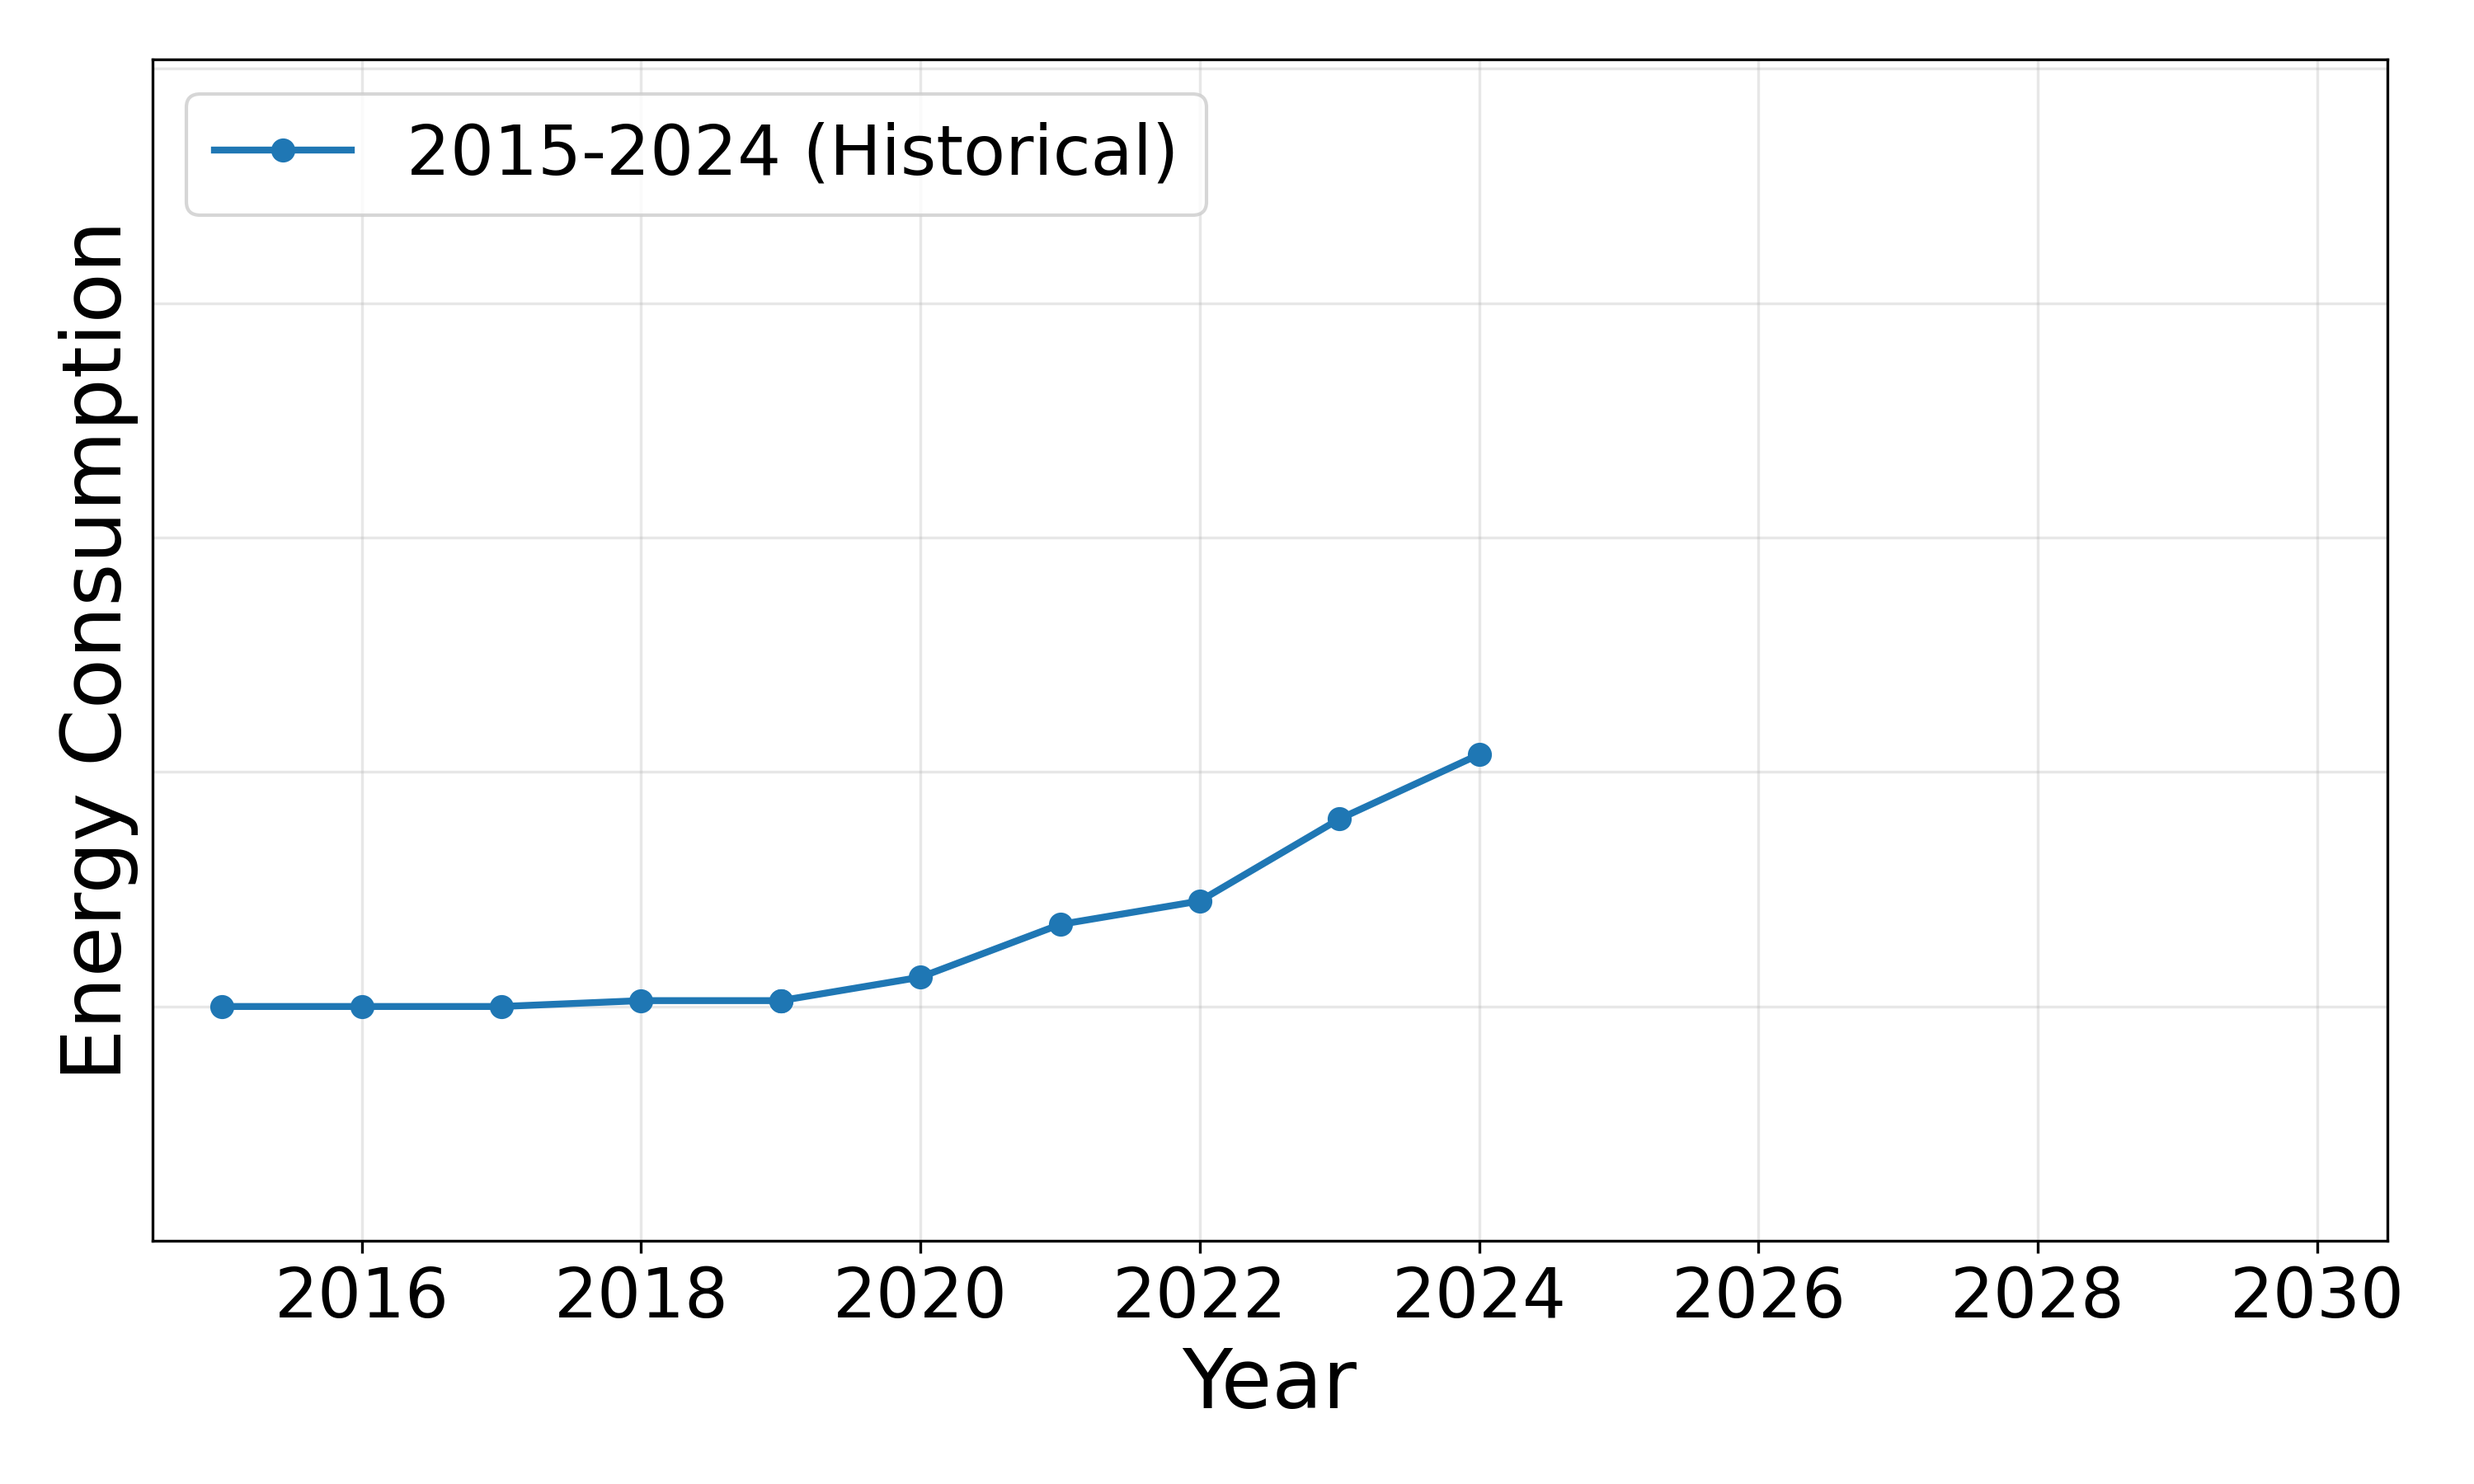
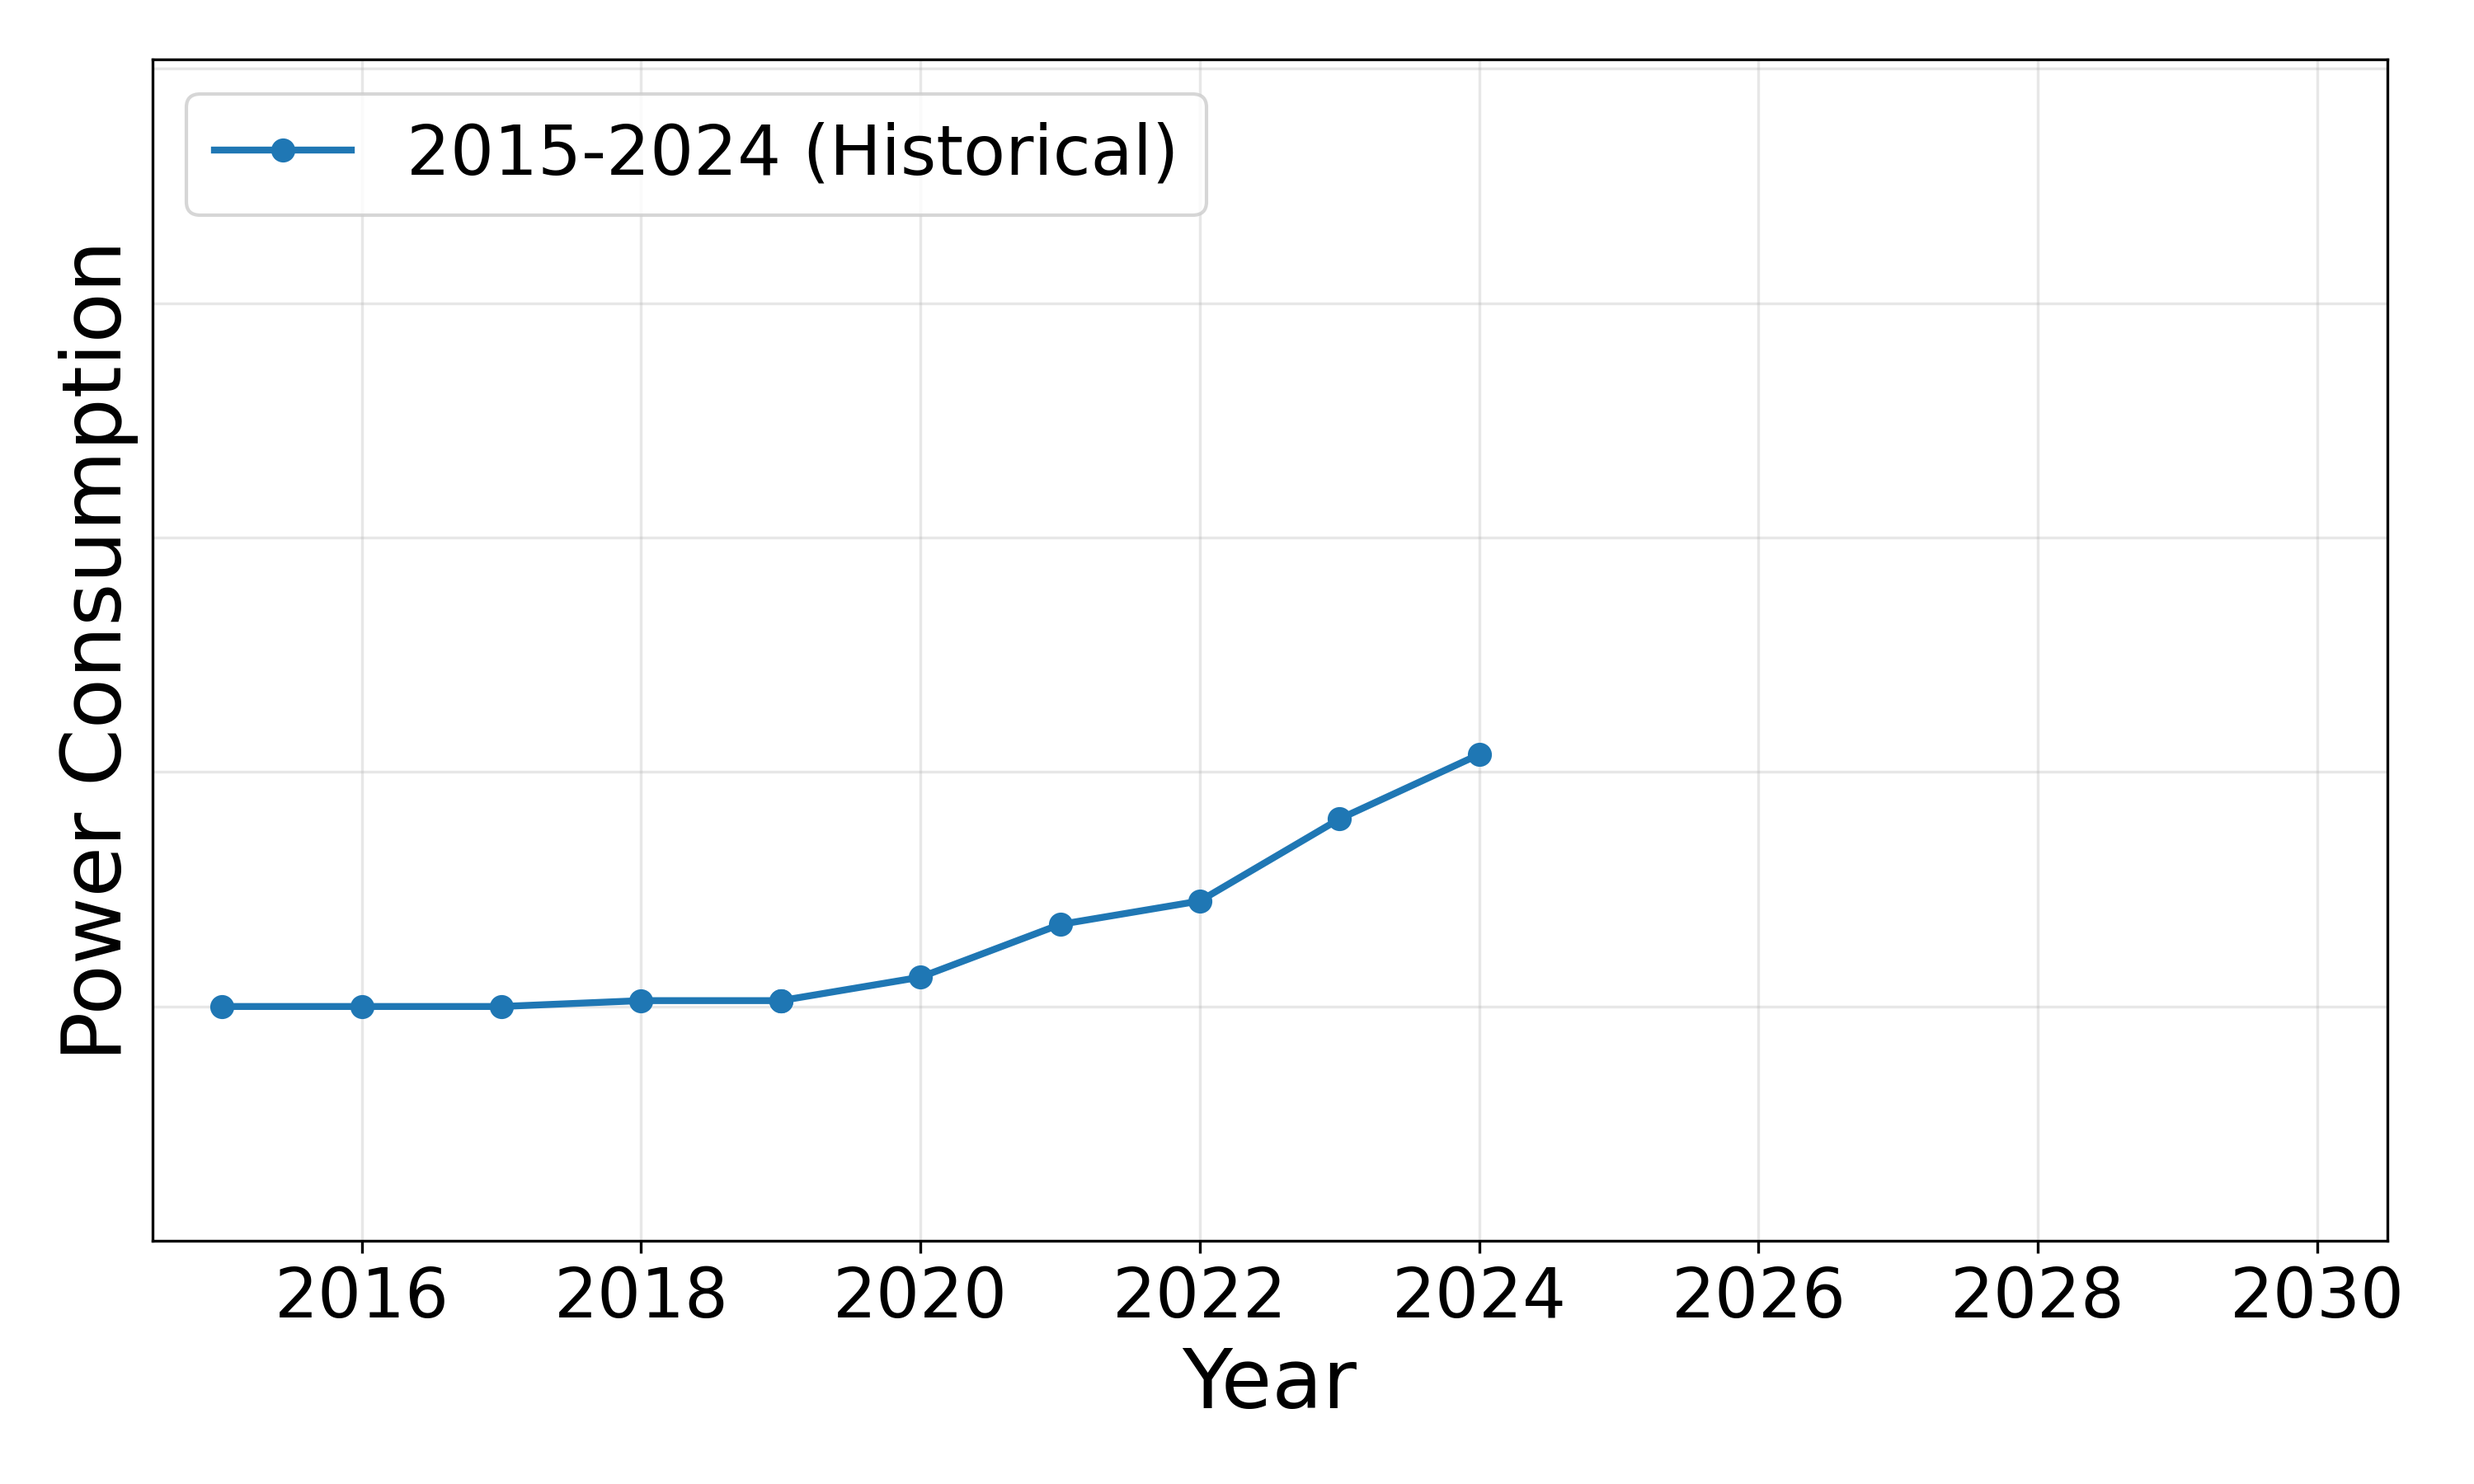
update

Changed region(s): [[0.0, 0.1556, 0.062, 0.7467]]

diff --git a/LLM_size_vs_hardware.py b/LLM_size_vs_hardware.py
@@ -33,34 +33,53 @@ model_rows = [
 ]
 
 hardware_rows = [
-    ("V100", "Jun-17", 3),
-    ("TPUv2", "Dec-17", 1),
-    ("TPUv3", "Dec-18", 3),
-    ("A100", "Jun-20", 7),
-    ("MI100", "Nov-20", 4),
-    ("MI250X", "Nov-21", 9),
-    ("TPUv4", "Dec-21", 6),
-    ("H100", "Sep-22", 22),
-    ("MI300X", "Dec-23", 29),
-    ("TPUv5p", "Dec-23", 10),
-    ("B200", "Oct-24", 57),
-    ("TPUv6", "Dec-24", 20),
-    ("MI350X", "Jun-25", 51),
-    ("TPUv7", "Oct-25", 51),
+    ("P100", "Jun-16", 1),
+    ("V100", "Jun-17", 7),
+    ("TPUv2", "Dec-17", 2),
+    ("TPUv3", "Dec-18", 6),
+    ("A100", "Jun-20", 16),
+    ("MI100", "Nov-20", 10),
+    ("MI250X", "Nov-21", 20),
+    ("TPUv4", "Dec-21", 14),
+    ("H100", "Sep-22", 52),
+    ("MI300X", "Dec-23", 69),
+    ("TPUv5p", "Dec-23", 24),
+    ("B200", "Dec-24", 135),
+    ("TPUv6", "Dec-24", 48),
+    ("MI350X", "Jun-25", 122),
+    ("TPUv7", "Oct-25", 121),
 ]
 
 dram_bandwidth_rows = [
+    ("P100", "Jun-16", 1),
     ("V100", "Jun-17", 1),
-    ("A100", "Jun-20", 2.2),
-    ("H100", "Sep-22", 3.7),
-    ("B200", "Mar-24", 8.9),
+    ("TPUv2", "Dec-17", 1),
+    ("TPUv3", "Dec-18", 1),
+    ("A100", "Jun-20", 3),
+    ("MI100", "Nov-20", 2),
+    ("MI250X", "Nov-21", 5),
+    ("TPUv4", "Dec-21", 2),
+    ("H100", "Sep-22", 5),
+    ("MI300X", "Dec-23", 7),
+    ("TPUv5p", "Dec-23", 4),
+    ("B200", "Dec-24", 11),
+    ("TPUv7", "Oct-25", 11),
 ]
 
 dram_capacity_rows = [
-    ("V100", "Jun-17", 1),
-    ("A100", "Jun-20", 2.5),
-    ("H100", "Sep-22", 2.5),
-    ("B200", "Mar-24", 6),
+    ("P100", "Jun-16", 1),
+    ("V100", "Jun-17", 2),
+    ("TPUv2", "Dec-17", 1),
+    ("TPUv3", "Dec-18", 2),
+    ("A100", "Jun-20", 5),
+    ("MI100", "Nov-20", 2),
+    ("MI250X", "Nov-21", 8),
+    ("TPUv4", "Dec-21", 2),
+    ("H100", "Sep-22", 5),
+    ("MI300X", "Dec-23", 12),
+    ("TPUv5p", "Dec-23", 6),
+    ("B200", "Dec-24", 12),
+    ("TPUv7", "Oct-25", 12),
 ]
 
 interconnect_rows = [
@@ -72,23 +91,27 @@ interconnect_rows = [
 
 df = pd.concat(
     [
-        make_df(model_rows, "Model Size Scaling: 4x per year"),
-        make_df(hardware_rows, "Hardware TFLOPS Scaling: 66% per year"),
-        make_df(interconnect_rows, "Interconnect Bandwidth Scaling: 29% per year"),
-        make_df(dram_bandwidth_rows, "DRAM Bandwidth Scaling: 37% per year"),
-        make_df(dram_capacity_rows, "DRAM Capacity Scaling: 29% per year"),
+        make_df(model_rows, "Model Size: 4x per year"),
+        make_df(hardware_rows, "Hardware TFLOPS: 73% per year"),
+        make_df(interconnect_rows, "Interconnect Bandwidth: 29% per year"),
+        make_df(dram_bandwidth_rows, "DRAM Bandwidth: 31% per year"),
+        make_df(dram_capacity_rows, "DRAM Capacity: 32% per year"),
     ],
     ignore_index=True,
 )
 
 # Create five separate figures
 # Define colors for each group
-colors = ['red', 'blue', 'orange', 'green', 'purple']
-group_names = ["Model Size Scaling: 4x per year", "Hardware TFLOPS Scaling: 66% per year", "Interconnect Bandwidth Scaling: 29% per year", "DRAM Bandwidth Scaling: 37% per year", "DRAM Capacity Scaling: 29% per year"]
+colors = ['red', 'blue', 'orange', 'green', 'red']
+group_names = ["Model Size: 4x per year", "Hardware TFLOPS: 73% per year", "Interconnect Bandwidth: 29% per year", "DRAM Bandwidth: 31% per year", "DRAM Capacity: 32% per year"]
 
 # Calculate overall date range for consistent x-axis across all figures
 overall_min_date = df["date"].min()
 overall_max_date = df["date"].max()
+
+overall_min_date = pd.to_datetime("Dec-15", format="%b-%y")
+overall_max_date = pd.to_datetime("Jan-26", format="%b-%y")
+
 
 def create_plot(groups_to_include, title_suffix, figure_num):
     fig, ax = plt.subplots(figsize=(10, 6))
@@ -112,7 +135,7 @@ def create_plot(groups_to_include, title_suffix, figure_num):
     
     # Axes formatting
     ax.set_yscale("log")
-    ax.set_ylim(0.1, 20000)
+    ax.set_ylim(0.5, 300)
     ax.set_xlim(overall_min_date, overall_max_date)  # Set consistent x-axis range
     ax.set_xlabel("Release date", fontsize=16)
     ax.set_ylabel("Scaling (log scale)", fontsize=16)
@@ -140,22 +163,27 @@ def create_plot(groups_to_include, title_suffix, figure_num):
     plt.tight_layout()
     plt.savefig(f"LLM_size_vs_hardware_figure_{figure_num}.png", dpi=300)
 
-# Figure 1: Only model scaling
-create_plot(["Model Size Scaling: 4x per year"], "Model Scaling Only", 1)
+# # Figure 1: Only model scaling
+# create_plot(["Model Size: 4x per year"], "Model Scaling Only", 1)
 
-# Figure 2: Model and Hardware TFLOPS scalings
-create_plot(["Model Size Scaling: 4x per year", "Hardware TFLOPS Scaling: 66% per year"], "Model and Hardware TFLOPS Scaling", 2)
+# # Figure 2: Model and Hardware TFLOPS scalings
+# create_plot(["Model Size: 4x per year", "Hardware TFLOPS: 73% per year"], "Model and Hardware TFLOPS Scaling", 2)
 
-# Figure 3: Model, Hardware TFLOPS and Interconnect BW Scaling
-create_plot(["Model Size Scaling: 4x per year", "Hardware TFLOPS Scaling: 66% per year", "Interconnect Bandwidth Scaling: 29% per year"], "Model, Hardware TFLOPS and Interconnect BW Scaling", 3)
+# # Figure 3: Model, Hardware TFLOPS and Interconnect BW Scaling
+# create_plot(["Model Size: 4x per year", "Hardware TFLOPS: 73% per year", "Interconnect Bandwidth: 29% per year"], "Model, Hardware TFLOPS and Interconnect BW Scaling", 3)
 
-# Figure 4: Add DRAM Bandwidth Scaling
-create_plot(["Model Size Scaling: 4x per year", "Hardware TFLOPS Scaling: 66% per year", "Interconnect Bandwidth Scaling: 29% per year", "DRAM Bandwidth Scaling: 37% per year"], "All Four Scalings", 4)
+# # Figure 4: Add DRAM Bandwidth Scaling
+# create_plot(["Model Size: 4x per year", "Hardware TFLOPS: 73% per year", "Interconnect Bandwidth: 29% per year", "DRAM Bandwidth: 31% per year"], "All Four Scalings", 4)
 
-# Figure 5: Model, Hardware TFLOPS, DRAM BW and Capacity (no interconnect)
-create_plot(["Model Size Scaling: 4x per year", "Hardware TFLOPS Scaling: 66% per year", "DRAM Bandwidth Scaling: 37% per year", "DRAM Capacity Scaling: 29% per year"], "Model, Hardware TFLOPS, DRAM BW and Capacity", 5)
+# # Figure 5: Model, Hardware TFLOPS, DRAM BW and Capacity (no interconnect)
+# create_plot(["Model Size: 4x per year", "Hardware TFLOPS: 73% per year", "DRAM Bandwidth: 31% per year", "DRAM Capacity: 32% per year"], "Model, Hardware TFLOPS, DRAM BW and Capacity", 5)
 
+# # Figure 2: Model, Hardware TFLOPS scalings and DRAM BW
+# create_plot(["Model Size: 4x per year", "Hardware TFLOPS: 73% per year", "DRAM Bandwidth: 31% per year"], "Model, Hardware TFLOPS Scaling and DRAM BW", 6)
 
-# Figure 2: Model, Hardware TFLOPS scalings and DRAM BW
-create_plot(["Model Size Scaling: 4x per year", "Hardware TFLOPS Scaling: 66% per year", "DRAM Bandwidth Scaling: 37% per year"], "Model, Hardware TFLOPS Scaling and DRAM BW", 6)
+create_plot(["Hardware TFLOPS: 73% per year"], "Hardware TFLOPS Scaling", 7)
+
+create_plot(["Hardware TFLOPS: 73% per year", "DRAM Bandwidth: 31% per year"], "Model, Hardware TFLOPS Scaling and DRAM BW", 8)
+
+create_plot(["Hardware TFLOPS: 73% per year", "DRAM Bandwidth: 31% per year", "DRAM Capacity: 32% per year"], "Model, Hardware TFLOPS Scaling, DRAM BW and capacity", 9)
 

diff --git a/Power_figure.py b/Power_figure.py
@@ -83,7 +83,7 @@ X_MARGIN = 0.5
 
 def _apply_axis_formatting() -> None:
 	plt.xlabel("Year", fontsize=24)
-	plt.ylabel("Energy Consumption", fontsize=24)
+	plt.ylabel("Power Consumption", fontsize=24)
 	plt.xlim(X_LIMITS[0] - X_MARGIN, X_LIMITS[1] + X_MARGIN)
 	plt.ylim(0, Y_MAX)
 	plt.grid(alpha=0.3)
@@ -184,7 +184,7 @@ def plot_country_comparison() -> None:
 		)
     
 
-	# ax_close.set_xlabel("Energy Consumption (TWh)", fontsize=22)
+	# ax_close.set_xlabel("Power Consumption (TWh)", fontsize=22)
 	ax_close.set_xlim(0, 1800)
 	ax_far.set_xlim(3500, max(values) + 500)
 
